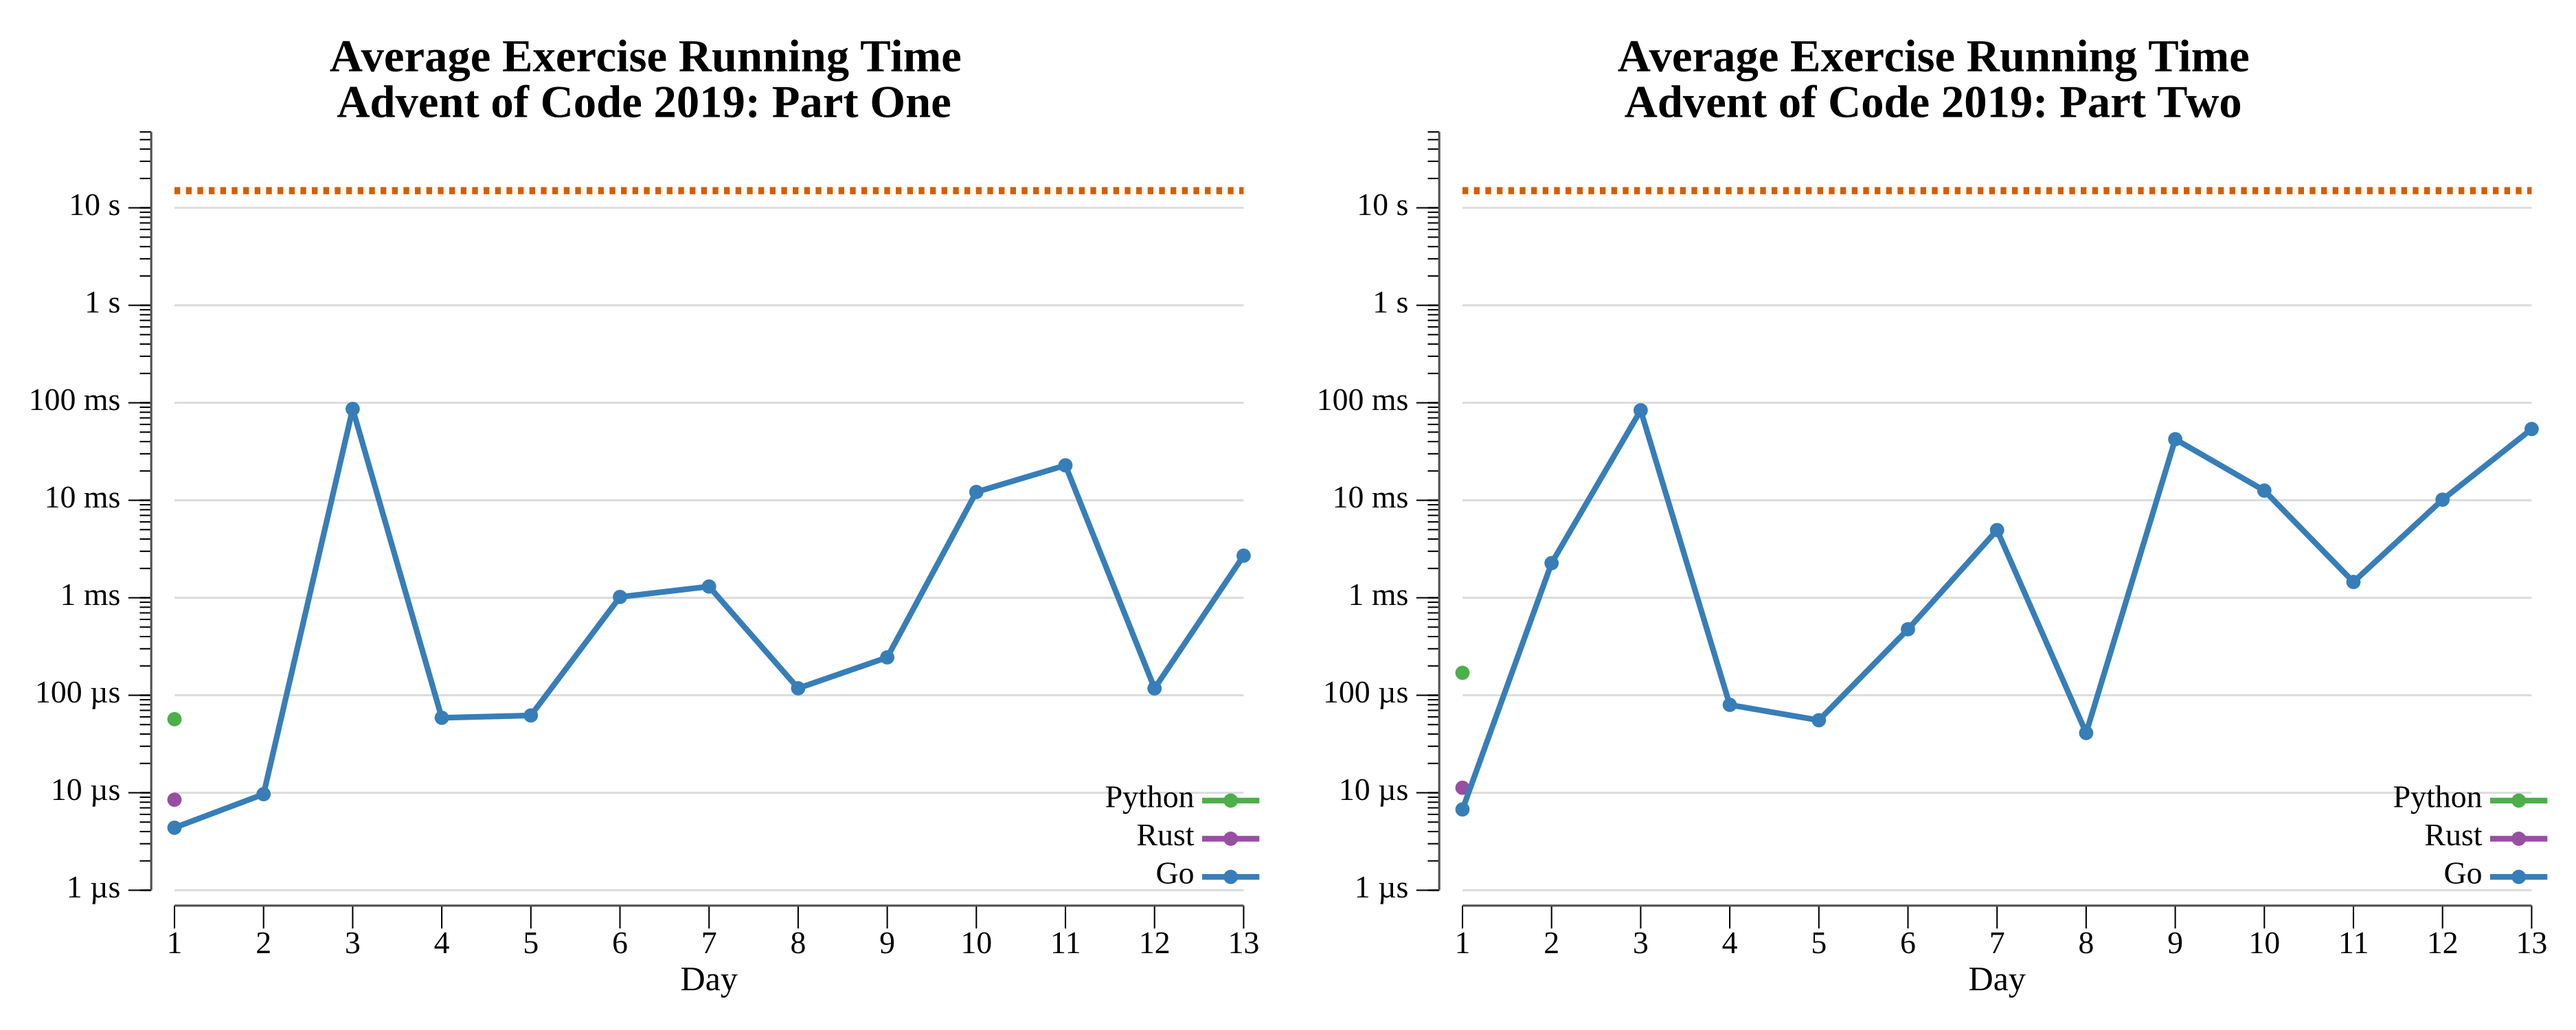
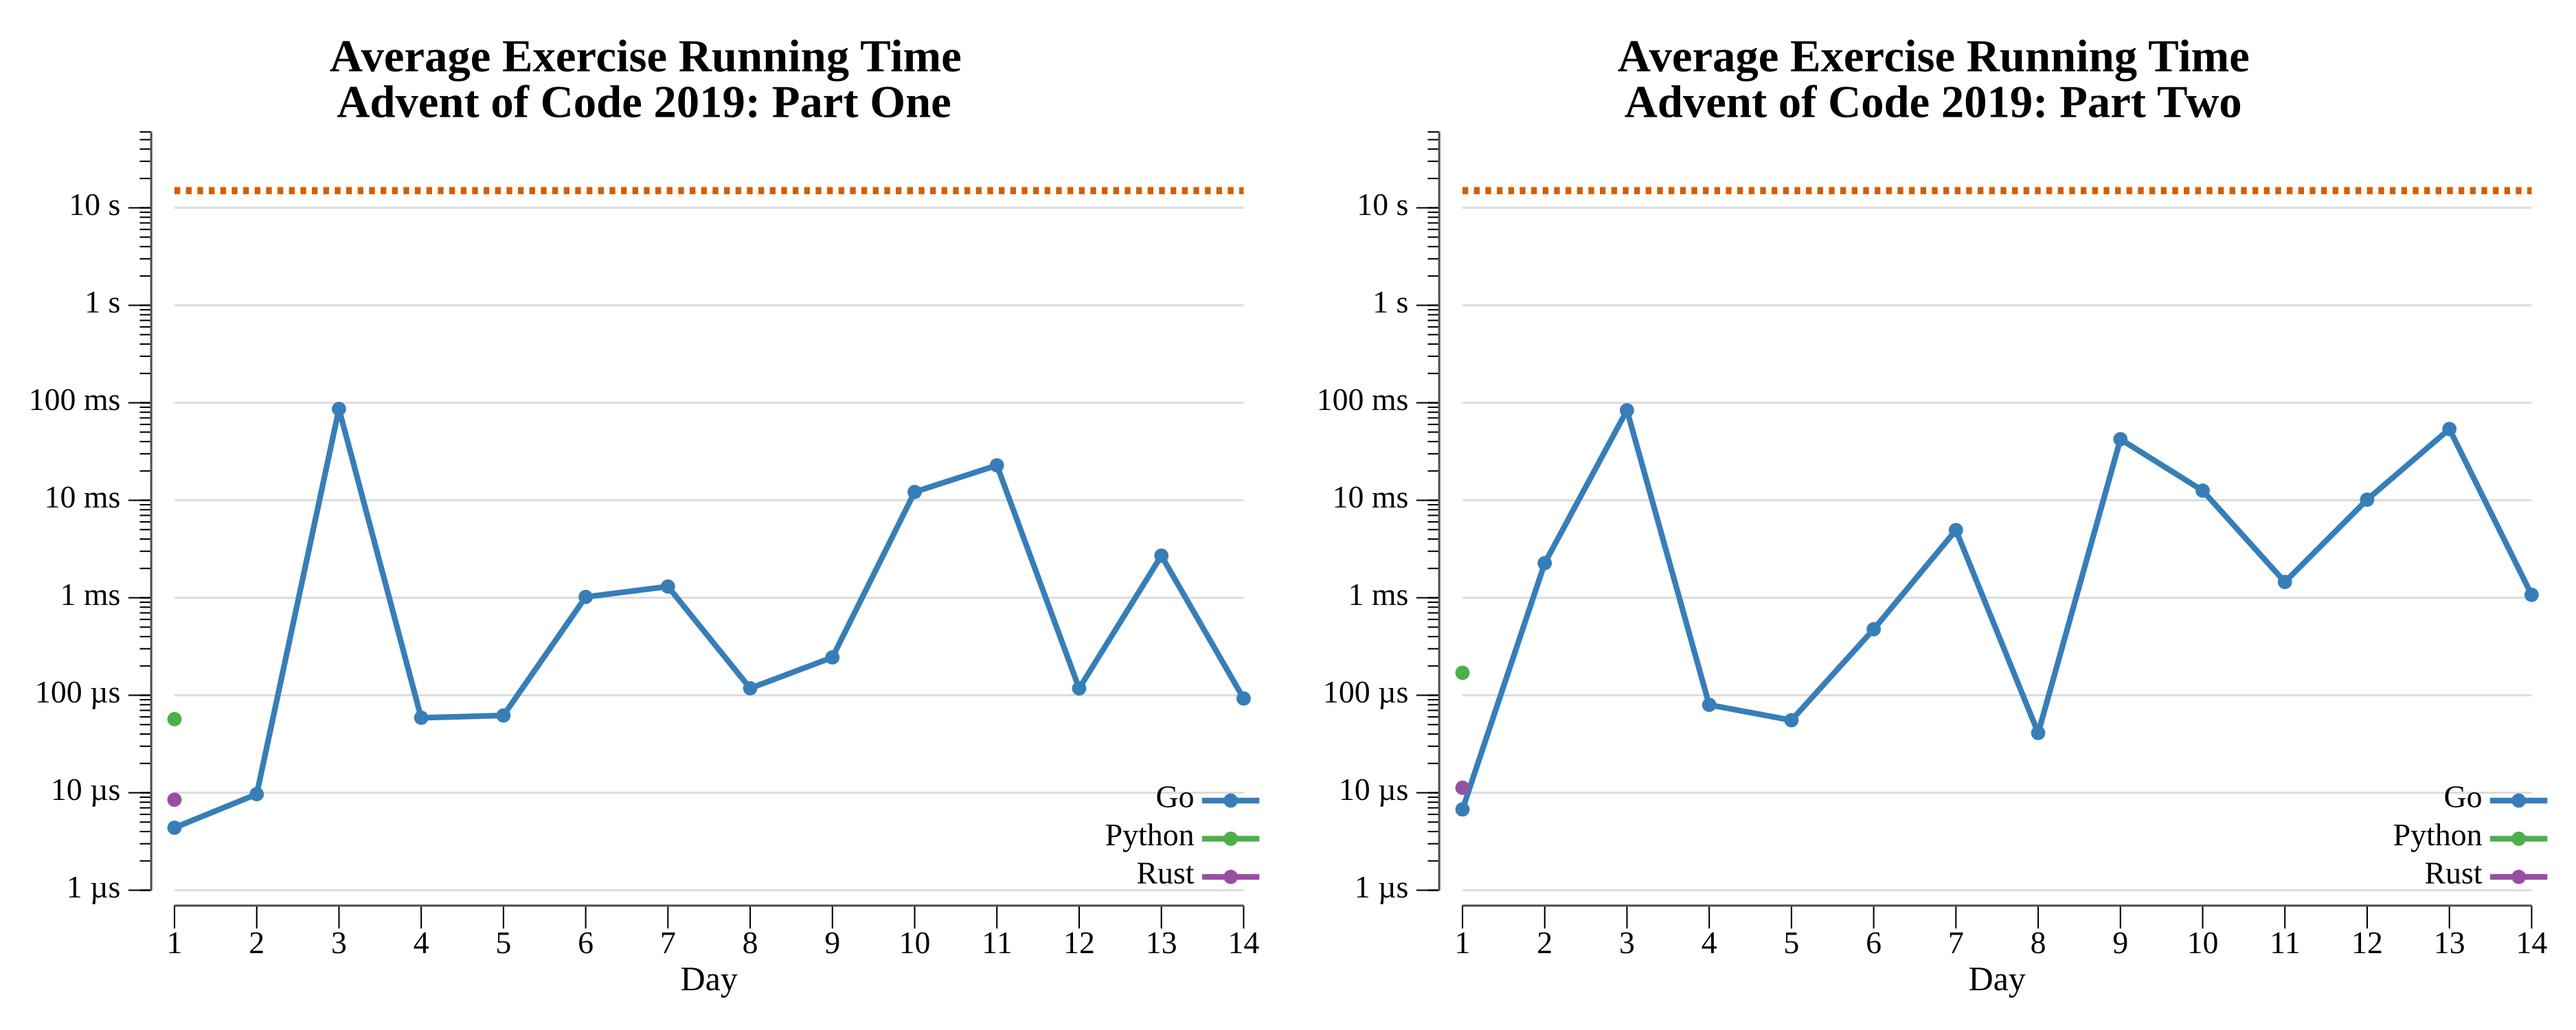
solve 2019 day 14

diff --git a/exercises/2019/14-spaceStoichiometry/go/exercise.go b/exercises/2019/14-spaceStoichiometry/go/exercise.go
@@ -1,7 +1,6 @@
 package exercises
 
 import (
-	"errors"
 	"strconv"
 	"strings"
 
@@ -98,6 +97,23 @@ func (e Exercise) One(instr string) (any, error) {
 }
 
 // Two returns the answer to the second part of the exercise.
-func (e Exercise) Two(_ string) (any, error) {
-	return nil, errors.New("part 2 not implemented")
+func (e Exercise) Two(input string) (any, error) {
+	reactions := parseReactions(input)
+
+	const totalOre = 1_000_000_000_000
+
+	costPerFuel := oreForFuel(reactions, 1)
+	lo := totalOre / costPerFuel
+	hi := lo * 2
+
+	for lo < hi {
+		mid := (lo + hi + 1) / 2
+		if oreForFuel(reactions, mid) <= totalOre {
+			lo = mid
+		} else {
+			hi = mid - 1
+		}
+	}
+
+	return lo, nil
 }

diff --git a/exercises/2019/14-spaceStoichiometry/README.md b/exercises/2019/14-spaceStoichiometry/README.md
@@ -12,18 +12,29 @@
 
 -->
 
+## Notes
+
+The input encodes a directed acyclic reaction graph: each chemical has exactly one recipe producing some quantity of it from one or more inputs. The goal is to find the minimum ORE required to produce a target amount of FUEL.
+
+Part One walks the DAG backwards from FUEL, accumulating demand for each chemical. When a chemical is needed, the recipe is applied using ceiling division so no partial batches are run; any excess produced is tracked as surplus and consumed before requesting more ORE. Processing chemicals in topological order (leaves first) ensures every surplus is fully accounted for before its parent is resolved. The result is 843220 ORE for 1 FUEL.
+
+Part Two asks how much FUEL can be produced from exactly 1 trillion ORE. Because the ORE cost is monotonically non-decreasing in FUEL quantity, a binary search over the FUEL amount uses Part One's cost function as the predicate. The search converges quickly to 2169535 FUEL.
+
 ## Go
 
 ```text
-< section intentionally left blank >
+────────────────────────────────────────
+─   2019 Day 14: Space Stoichiometry   ─
+────────────────────────────────────────
+
+Testing (Go)…
+1.0:  PASS             7.822µs
+
+Solving (Go)…
+1.0:  PASS             0.072ms
+2.0:  PASS             1.155ms
 ```
 
-## Python
+## Run Times
 
-```text
-< section intentionally left blank >
-```
-
-## 2019 Run Times
-
-![2019 exercise run-time graphs](../run-times.png)
+![Run Times](run-times.png)

diff --git a/exercises/2019/README.md b/exercises/2019/README.md
@@ -19,7 +19,7 @@
 | [Day 11: Space Police][rm_11]                     |  ★ ★  | [Go][go_11] |
 | [Day 12: The N-Body Problem][rm_12]               |  ★ ★  | [Go][go_12] |
 | [Day 13: Care Package][rm_13]                     |  ★ ★  | [Go][go_13] |
-| 14                                                |  ☆ ☆  |                            |
+| [Day 14: Space Stoichiometry][rm_14]              |  ★ ★  | [Go][go_14] |
 | 15                                                |  ☆ ☆  |                            |
 | 16                                                |  ☆ ☆  |                            |
 | 17                                                |  ☆ ☆  |                            |
@@ -85,3 +85,6 @@ Day       Time    Rank  Score       Time    Rank  Score
 
 [rm_13]: 13-carePackage/README.md
 [go_13]: 13-carePackage/go
+
+[rm_14]: 14-spaceStoichiometry/README.md
+[go_14]: 14-spaceStoichiometry/go
